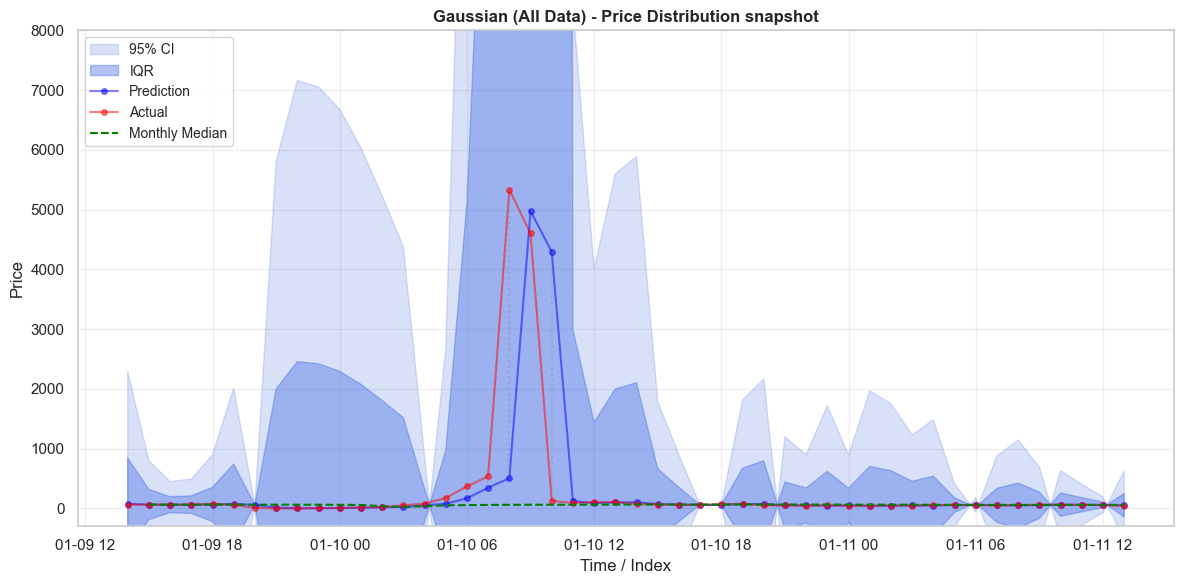
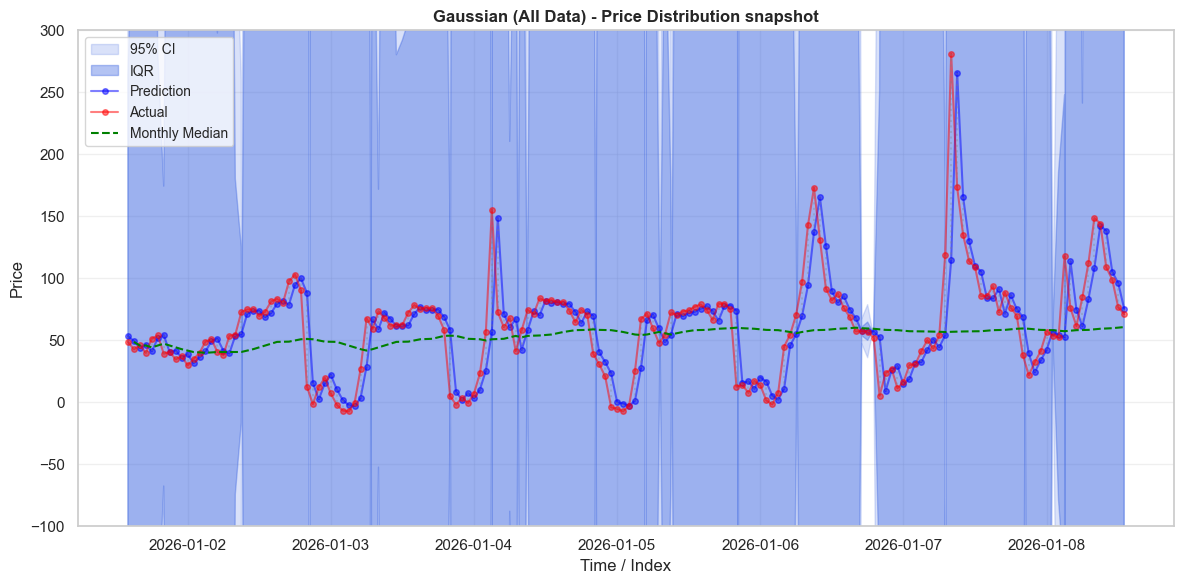
update

diff --git a/_posts/2026-02-21-cauchy.md b/_posts/2026-02-21-cauchy.md
@@ -32,7 +32,7 @@ Observing this strange behaviour made me curious - it is all well and good obser
 
 I found one such instance in a paper by Warren Powell [^1], where he analyses electricity prices in the US and finds that the Cauchy distribution is a good fit for modelling the error term of a median-reverting model of hourly spot prices. I'll explain more details in a moment. But I decided to get some Australian data and see if I could replicate the model and view the Cauchy distribution in the wild.
 
-Using the OpenElectricity API [^2] I was able to extract hourly electricty spot price data for NSW. Exactly the sort of data used by Powell in his paper. Plotting this price data below, we can see that the pric behaviour is highly volatile with extreme spikes, and this affects the estimation of the mean. The mean estimate appears not to converge and be sensitive to sudden spikes, much like our simulated data above. 
+Using the OpenElectricity API [^2] I was able to extract hourly electricty spot price data for NSW. Exactly the sort of data used by Powell in his paper. Plotting this price data below, we can see that the price behaviour is highly volatile with extreme spikes, and this affects the estimation of the mean. The mean estimate appears not to converge and be sensitive to sudden spikes, much like our simulated data above. 
 
 Over the course of the year, the trend electricity price may fluctuate due to seasonality, and this may mean we see a change in the mean. But note, the types of changes we observe in the mean estimate are sudden and large, and they correlate with the extreme jumps in price (price spikes are the 99.5th percentile price observations). This suggests that the reason for not converging is not due to seasonality but rather the heavy tailed nature of the electricity prices. This is not to say there are no seasonal impacts on price - just that the instability in the mean estimate is not driven by them.
 
@@ -63,62 +63,81 @@ $$
 \hat{\epsilon_{t}} = \frac{Y_{t}}{\mu_{Y}}
 $$
 
-This is the term that Powell and Kim [^1] suggest is governed by a Cauchy distribution. In their paper, they estimate the tail parameter $\alpha$ and find that it is close to 1, implying infinite variance. I've simply done a comparison here against a QQ-plot looking at the actaul data vs a Cauchy distribution with $x_0 = 1$ and $\gamma \approx 5.23$. I've also estimated a Gaussian with $\mu \approx -3.5$ and $\sigma \approx 911$ (naively, without removing outliers). You can see clearly that the Cauchy distribution fits significantly better than the Gaussian, although it still has some discrepancies for the large tail values. In particular, the Cauchy distribution appears to have more extreme tails than the actual data.
+This is the term that Powell and Kim [^1] suggest is governed by a Cauchy distribution. In their paper, they estimate the tail parameter $\alpha$ and find that it is close to 1, implying infinite variance. I've simply done a comparison here against a QQ-plot looking at the actual data vs a Cauchy distribution with $x_0 = 1$ and $\gamma \approx 5.23$. I've also estimated a Gaussian with $\mu \approx -3.5$ and $\sigma \approx 911$ (naively, without removing outliers), and another Gaussian using the same parameters as the Cauchy distribution. You can see clearly that the Cauchy distribution fits significantly better than either of the Gaussians,with each of these significantly over or under estimating the frequency for the tails. The Cauchy distribution is not perfect however, and appears to have more extreme tails than the actual data. Note, the analysis hereon is applied to a test set (Jan to Feb 2026) which was not used to fit the distributions or model. The training set comprised of the all 2025 NSW hourly spot price data.
 
 <div style="display: flex; justify-content: space-between; gap: 10px;">
   <figure style="width: 48%; text-align: center;">
-    <img src="{{ '/images/20260221Cauchy/qq_cauchy_train.png' | relative_url }}" alt="Cauchy QQ Plot">
+    <img src="{{ '/images/20260221Cauchy/qq_cauchy_test.png' | relative_url }}" alt="Cauchy QQ Plot">
     <figcaption><b>QQ Plot for a fitted Cauchy distribution</b></figcaption>
   </figure>
   
   <figure style="width: 48%; text-align: center;">
-    <img src="{{ '/images/20260221Cauchy/qq_normal_train.png' | relative_url }}" alt="Gaussian QQ Plot">
+    <img src="{{ '/images/20260221Cauchy/qq_normal_test.png' | relative_url }}" alt="Gaussian QQ Plot">
     <figcaption><b>QQ Plot for a fitted Normal distribution</b></figcaption>
   </figure>
 </div>
 
-Quantile distributions of $Y$ show a good match as well (this is how Powell and Kim present their model fit before concluding the paper). Here I've include a Gaussian distribution with outliers +/- 3 standard deviations removed, as well as the naive estimate with all data. You can see, the Cauchy quantiles match nicely with the actual distribution, while the Gaussian distributions are far from the mark around the tails. Essentially, while the variance is clearly large - the spread of prices between the 90th and 10th quantiles is over $2,000 for the naive estimate - the Gaussian distributions fail to account for the fact that there are massive _rare_ events. They just assume that 80% of prices will be somewhere between +/- $1,000. This is not very specific and does not reflect the true distribution of prices.
+Quantile distributions of $Y$ show a good match as well (this is how Powell and Kim present their model fit before concluding the paper). You can see, the Cauchy quantiles match nicely with the actual distribution, while the naive Gaussian distribution are far from the mark around the tails. Essentially, while the variance is clearly large - the spread of prices between the 90th and 10th quantiles is over $2,000 for the naive estimate - the Gaussian distributions fail to account for the fact that there are massive _rare_ events. They just assume that 80% of prices will be somewhere between +/- $1,000. This is not very specific and does not reflect the true distribution of prices.
 
 $$
 \small
-\begin{array}{|l|c|c|c|c|c|c|c|c|c|}
+\begin{array}{|l|r|r|r||r|r|r|r|}
 \hline
-\text{Distribution/Quantile} & 0.1 & 0.2 & 0.3 & 0.4 & 0.5 & 0.6 & 0.7 & 0.8 & 0.9 \\ \hline
-\textbf{Actual} & -15.998 & -6.245 & -2.562 & -0.503 & 1.016 & 2.711 & 4.807 & 8.089 & 17.546 \\ \hline
-\text{Cauchy} & -15.108 & -6.204 & -2.802 & -0.701 & 1.000 & 2.701 & 4.802 & 8.204 & 17.108 \\ \hline
-\text{Gaussian (All Data)} & -1171.762 & -770.723 & -481.545 & -234.454 & -3.503 & 227.447 & 474.539 & 763.716 & 1164.755 \\ \hline
-\text{Gaussian (Filtered)} & -143.314 & -93.772 & -58.049 & -27.524 & 1.006 & 29.536 & 60.060 & 95.784 & 145.325 \\ \hline
-
+\text{Model} & \text{0.1} & \text{0.2} & \text{0.3} & \text{0.4} & \text{0.5} & \text{0.6} & \text{0.7} & \text{0.8} & \text{0.9} \\ \hline
+\text{Actual} & -15.998 & -6.245 & -2.562 & -0.503 & 1.016 & 2.711 & 4.807 & 8.089 & 17.546 \\
+\text{Cauchy} & -15.108 & -6.204 & -2.802 & -0.701 & 1.000 & 2.701 & 4.802 & 8.204 & 17.108 \\
+\text{Gaussian (QE-P)} & -5.707 & -3.405 & -1.745 & -0.326 & 1.000 & 2.326 & 3.745 & 5.405 & 7.707 \\ 
+\text{Gaussian (All Data)} & -1171.762 & -770.723 & -481.545 & -234.454 & -3.503 & 227.447 & 474.539 & 763.716 & 1164.755 \\\hline
 \end{array}
 $$
 
-We can see this better when we look at actual prices. Note - I've split the data into test and train. The model parameters (i.e. $\bar{\mu}_Y$) was estimated on NSW electricity price data between 1 Jan 2025 and 31 Dec 2025, while the test set ranges from 1 Jan 2026 to Mid-Feb 2026. [FIX THIS] Above I plotted training values - although there is very little difference. 
-
-Below we plot a snapshot of the training data around a price spike on the evening of 10 Jan 2026. The predicted price is the same for both models - using the reverting median. The distribution around the prices varies using the distributions we estimated before. As we saw in the quantile plot above, the Gaussian distribution has unrealistically large tails. Almost every observation occurs within the IQR of the Gaussian distribution - which should truly only have 50% of the observations. In contrast, the Cauchy distribution actually has narrower tails, but these capture the data better - most of the time the price distribution is narrowly peaked around the actual prices, but it spreads out when there are large deviations from the median.
+We can see this better when we look at actual prices. Below we plot a snapshot of the training data around a price spike on the evening of 10 Jan 2026. The predicted price is the same for both models - using the reverting median. The distribution around the prices varies using the distributions we estimated before. As we saw in the quantile plot above, the naive Gaussian distribution has unrealistically large tails. Almost every observation occurs within the IQR of the Gaussian distribution - which should truly only have 50% of the observations. In contrast, the Cauchy distribution actually has narrower tails, but these capture the data better - most of the time the price distribution is narrowly peaked around the actual prices, but it spreads out when there are large deviations from the median. On the other hand, the Gaussian with the same parameters as the Cauchy has tails that are too narrow. At times of change, it will often exclude whole trajectories of actuals from its 95% CI range.
 
 <div style="justify-content: space-between; gap: 10px;">
   <figure style="width: 100%; text-align: center;">
-    <img src="{{ '/images/20260221Cauchy/filtered_data_gaussian_test.png' | relative_url }}" alt="Gaussian (filtered data) Error Price Model">
-    <figcaption><b>Gaussian (filtered data) Error Price Model</b></figcaption>
+    <img src="{{ '/images/20260221Cauchy/all_data_gaussian_test.png' | relative_url }}" alt="Cauchy Error Price Model">
+    <figcaption><b>Gaussian (all-data) Error on a typical week</b></figcaption>
+  </figure>
+  <figure style="width: 100%; text-align: center;">
+    <img src="{{ '/images/20260221Cauchy/qep_gaussian_test.png' | relative_url }}" alt="Gaussian (filtered data) Error Price Model">
+    <figcaption><b>Gaussian (Quantile Estimated Parameters) Error on a typical week</b></figcaption>
   </figure>
   
   <figure style="width: 100%; text-align: center;">
     <img src="{{ '/images/20260221Cauchy/cauchy_test.png' | relative_url }}" alt="Cauchy Error Price Model">
-    <figcaption><b>Cauchy Error Price Model</b></figcaption>
+    <figcaption><b>Cauchy Error on a typical week</b></figcaption>
   </figure>
+
+
 </div>
 
-The below table shows how accurate the probability estimate of price is when errors are modelled with a Cauchy distribution. In contrast, the Gaussian distribution thinks that almost _everything_ should fall within the IQR. It over-states the probability of events occurring because it is highly responsive to the outliers in the data. This is a bit counter-intuitive as the reason for using a Cauchy distribution is that it has fatter tails. Part of this difference may be due to the fact we are applying the Gaussian error term to a median-reverting model which already accounts for the extreme nature of the prices by using median rather than mean. But the Gaussian tails are incorrectly specified, as they assign a higher probability than observed to almost all prices. The Cauchy distribution assigns more accurate probabilities, as shown in the below table.
+The below table shows how accurate the probability estimate of price is when errors are modelled with a Cauchy distribution. In contrast, the naive Gaussian distribution thinks that almost _everything_ should fall within the IQR. It over-states the probability of events occurring because it is highly responsive to the outliers in the data. While this distribution might assign every observed price a high probability, it doesn't assign it an _accurate_ probability, which is a problem if you want it to guide decision making. As anticipated, the Gaussian with Cauchy parameters under-estimates probabilities. Lastly, we see that the Cauchy distribution is almost exact with its quantile estimates - although we see slightly fewer observations in the 95% CI range than we would like.
 
 $$
+\small
 \begin{array}{|l|c|c|c|c|}
 \hline
 \text{Distribution} & \text{Test in IQR} & \text{Train in IQR} & \text{Test in 95 CI} & \text{Train in 95 CI} \\ \hline
-\text{Cauchy} & 0.500 & 0.499 & 0.938 & 0.938  \\ \hline
-\text{Gaussian (All)} & 0.989 & 0.991 & 0.993 & 0.996  \\ \hline
-\text{Gaussian (Filt)} & 0.941 & 0.944 & 0.983 & 0.977 \\ \hline
+\text{Cauchy} & 0.500 & 0.499 & 0.938 & 0.938 \\ \hline
+\text{Gaussian (QEP)} & 0.388 & 0.388 & 0.702 & 0.683 \\ \hline
+\text{Gaussian (All Data)} & 0.989 & 0.991 & 0.993 & 0.996 \\ \hline
 \end{array}
 $$
+
+Before finishing, I did want to analyse a price spike that occurs in the test data. Its interesting to see that despite its fatter tails, the Cauchy distribution can still miss outliers by potentially a large amount. It does do significantly better than the equivalent Gaussian distribution which fails to include the whole trajectory leading up to the spike in its 95% CI.
+
+
+<div style="justify-content: space-between; gap: 10px;">
+  <figure style="width: 100%; text-align: center;">
+    <img src="{{ '/images/20260221Cauchy/qep_gaussian_test_spike.png' | relative_url }}" alt="Gaussian Error Price Model">
+    <figcaption><b>Gaussian (Quantile-Estimated Parameters) Error on price spike</b></figcaption>
+  </figure>
+  
+  <figure style="width: 100%; text-align: center;">
+    <img src="{{ '/images/20260221Cauchy/cauchy_test_spike.png' | relative_url }}" alt="Cauchy Error Price Model">
+    <figcaption><b>Cauchy Error on price spike</b></figcaption>
+  </figure>
+</div>
 
 ## Conclusion 
 So we have seen that despite their unusual properties of not having means or variances, the Cauchy distribution does occur in real world circumstances and can be applied. One thing I'd be interested in learning more about is how to use a model such as the one implemented above. As it was designed for energy trading, I think it would be interesting to understand what strategies it could be used for. The first thing that comes to mind is for buying low / selling high with a probabilitistic forecast of future prices. But I do note - while the Cauchy model appears to have accurate predictions, based on the plot shown above, it still seems to miss some outliers entirely. Could that result in large losses?
